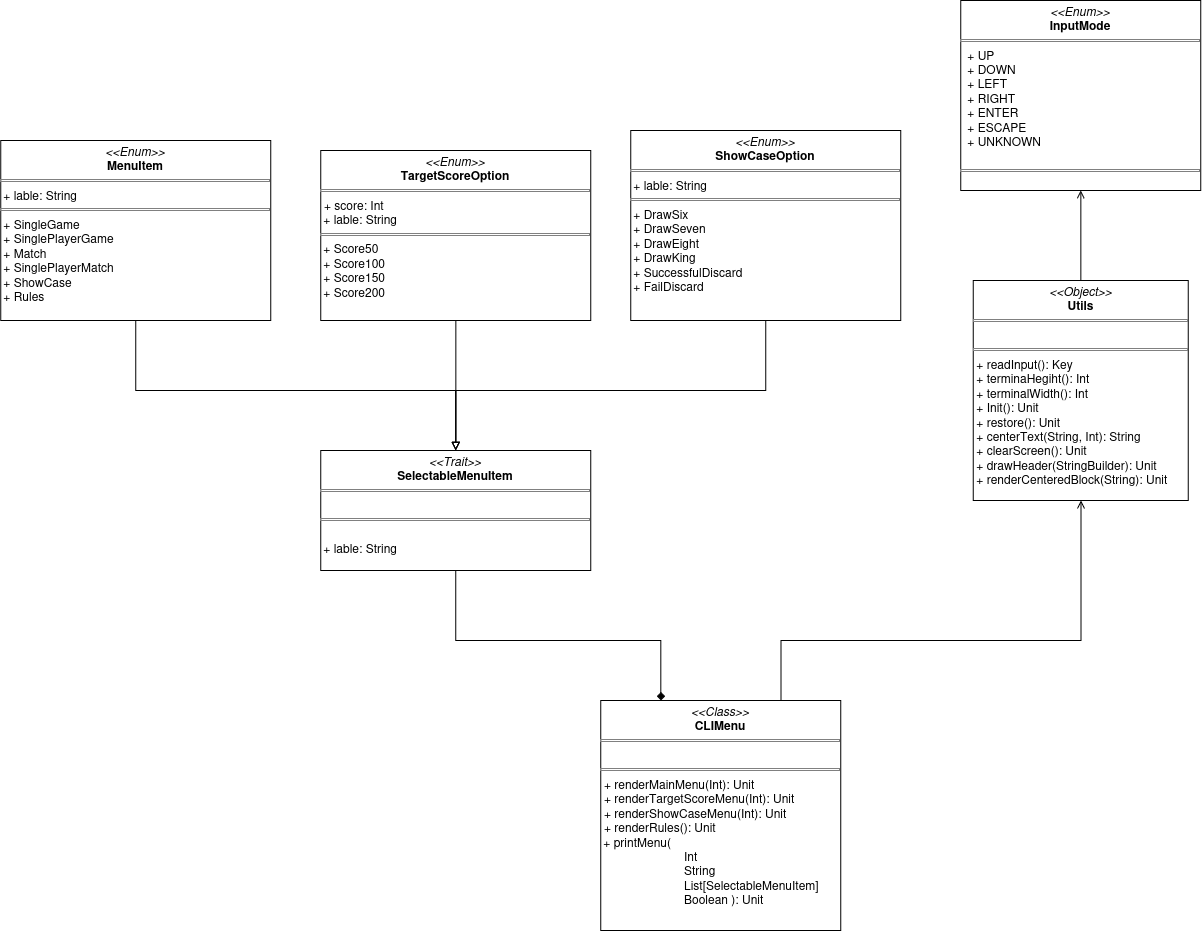
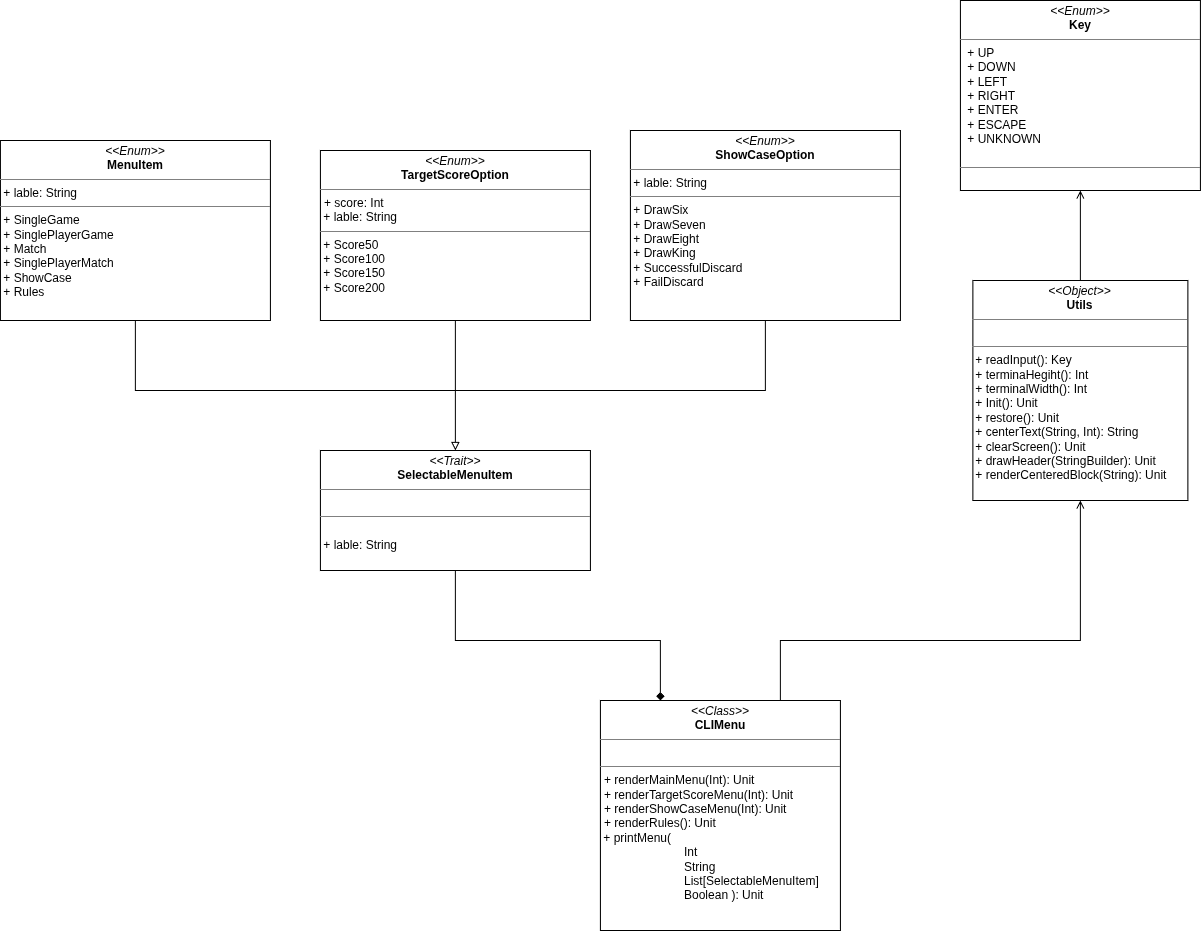
docs: change key enum name

diff --git a/docs/design-di-dettaglio.md b/docs/design-di-dettaglio.md
@@ -16,6 +16,12 @@ avanzare le fasi del gioco fornendo una delle azioni (`Action`) indicate dall'en
 
 ![](img/Model.drawio.png)
 
+## Board
+
+L'interfaccia `Board` fornisce diversi metodi che permettono di modificare il tavolo durante
+il turno. Questi metodi a loro volta sfruttano quelli forniti dalle interfacce `Field`, `Deck`, e
+`Card` di cui `Board` è composta.
+
 ### Creazione del tavolo (`Board`, `Field`, `Deck`, `Card`)
 
 La creazione delle entità `Board` avviene
@@ -23,7 +29,7 @@ tramite **Factory Methods** contenuti nell'oggetto `BoardFactory`.
 Per facilitare e sintetizzare il loro utilizzo, soprattutto a scopo di testing,
 è stato realizzato un DSL, che permette di popolare una `Board` indicando
 quali carte inserire nei sui vari elementi. Il DSL comprende funzionalità per
-la creazione dei sotto-elemnti della `Board`, come le singole carte (`Card`), i campi
+la creazione dei sotto-elementi della `Board`, come le singole carte (`Card`), i campi
 dei giocatori (`Field`), il mazzo (`Deck`), e la pila degli scarti.
 
 ![DSL per la creazione di `Board`](img/BoardDSL.drawio.png)
@@ -39,7 +45,8 @@ dei giocatori (`Field`), il mazzo (`Deck`), e la pila degli scarti.
 L'interfaccia `Playable` rappresenta le entità che racchiudono le funzionalità delle dinamiche
 di gioco.
 Attraverso di essa è possibile avanzare nelle varie fasi del gioco, cioè alterare lo stato
-delle entità `Playable`, scegliendo una tra le azioni (`Action`) disponibili.
+delle entità `Playable`, scegliendo una tra le azioni (`Action`) disponibili tramite il metodo
+`act`.
 
 L'entità base è `Turn` che rappresenta un singolo turno di un singolo giocatore, e
 aggrega al suo interno il giocatore, la sua mano, e il tavolo (`Board`).
@@ -66,13 +73,15 @@ in base alle azioni eseguite dall'utente durante il suo turno.
 
 ## Controller
 
-![Controller e View](img/Controller.drawio.png)
+![Controller](img/Controller.drawio.png)
 
 L'interfaccia `Playable` è utilizzata da `GameController`, che ottiene l'input dell'utente 
 e permette di selezionare l'azione desiderata durante il turno.
 `MatchController` aggiunge la possibilità di giocare piu partite tramite composizione con `GameController`.
 L'istanza del controller adeguato è creata da `MenuController` in base all'elemento selezionato dall'utente
 nel menu.
+
+Il loop principale eseguito durante una qualsiasi partita è il seguente:
 
 ![Diagramma di sequenza del game loop](img/SequenzaGameLoop.drawio.png)
 
